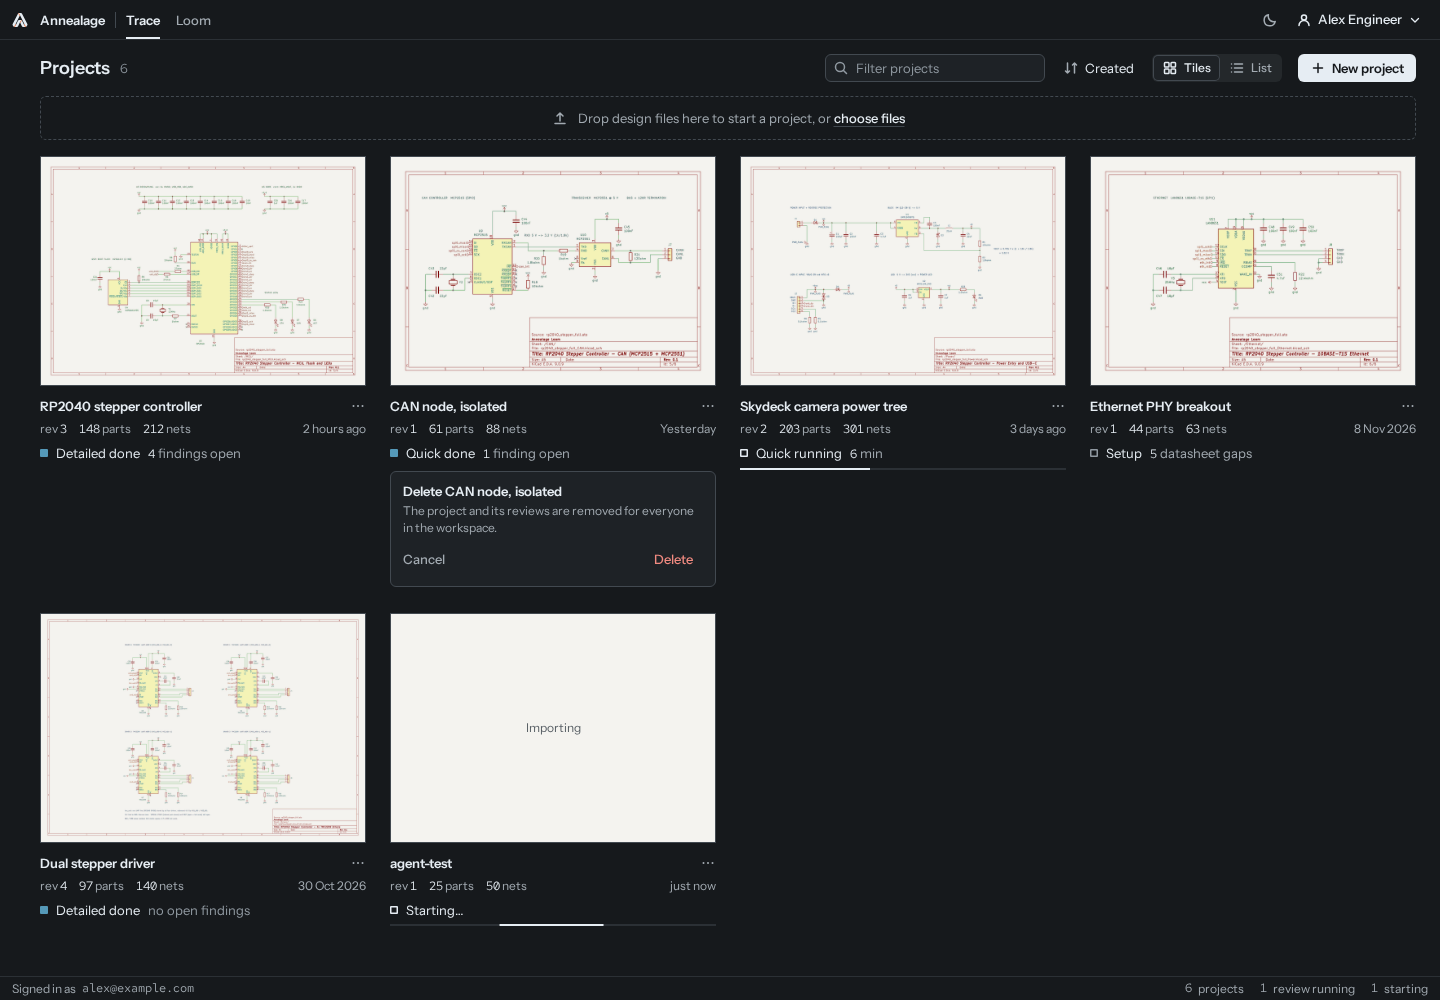
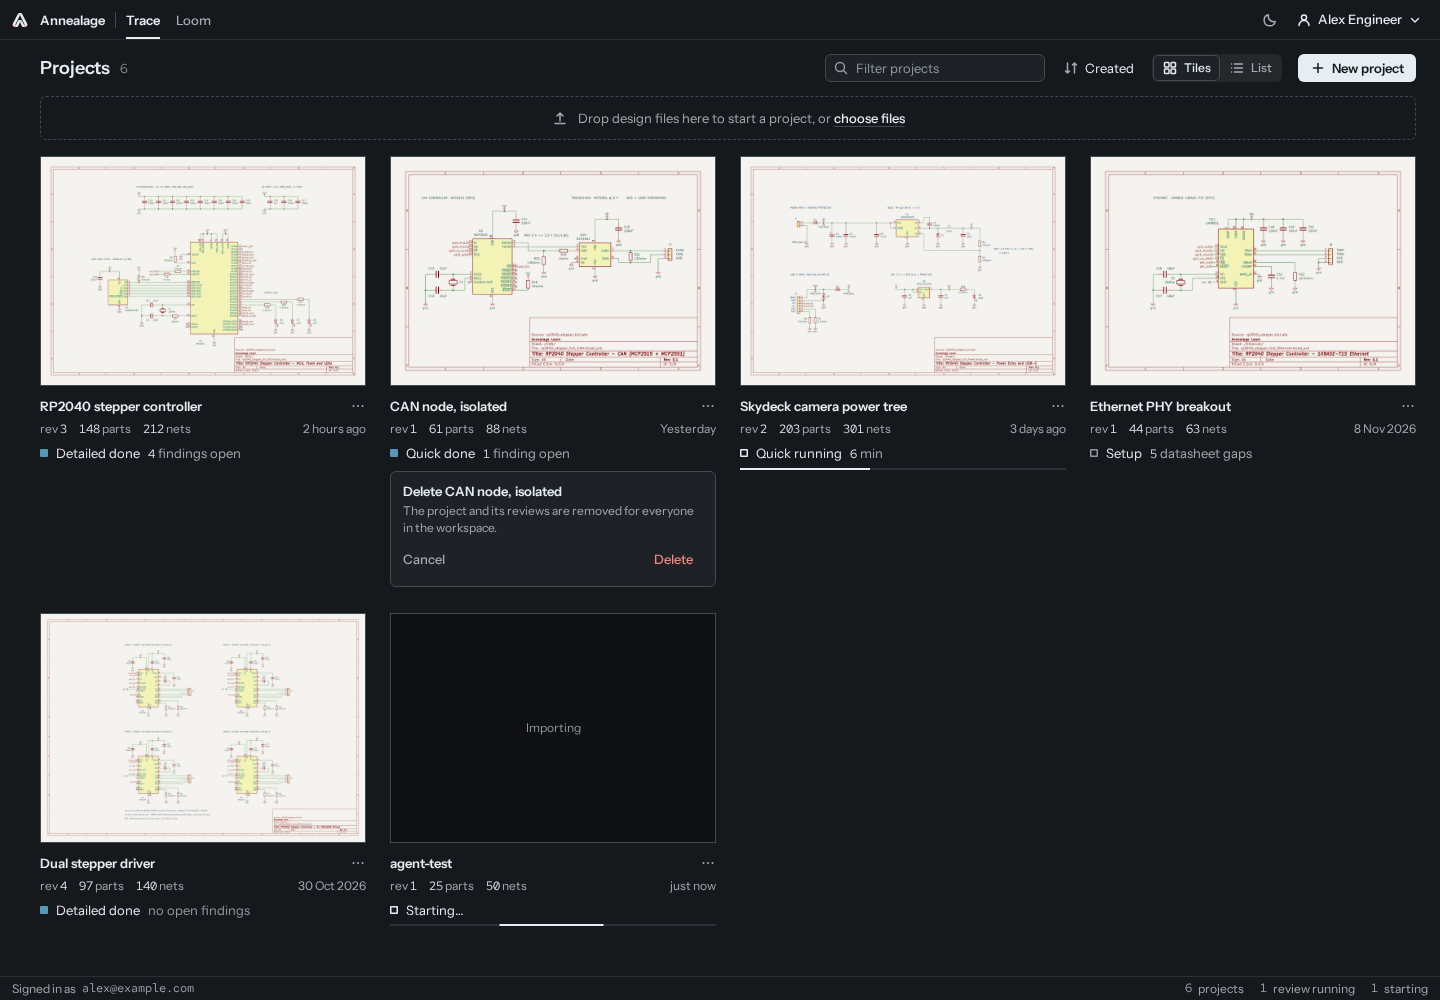
pages: a blank project thumbnail is an empty slot in the well's tone
It has no sheet, so it is not paper: in dark a register of them lit up as
bright boxes. --paper-ink-2 had no other use and goes.

Baselines: list-list light and dark, list-tiles light and dark,
list-phone light, reviewed.

Changed region(s): [[0.25, 0.589, 0.5, 0.868]]

diff --git a/pages.css b/pages.css
@@ -205,7 +205,9 @@ button.drop, button.dropstrip { width: 100%; }
 .p-name { font-weight: 600; min-width: 0; overflow: hidden; text-overflow: ellipsis; white-space: nowrap; }
 a.p-name:hover { text-decoration: underline; text-decoration-color: var(--rule-strong); text-underline-offset: 3px; }
 .p-thumb { display: block; aspect-ratio: 2400 / 1692; }
-.p-thumb.blank { display: grid; place-items: center; background: var(--paper); color: var(--paper-ink-2); font-size: var(--fs-small); }
+/* A thumbnail with no sheet yet is not paper: an empty slot in the well's tone, so a
+   register of them does not light up in dark. */
+.p-thumb.blank { display: grid; place-items: center; background: var(--well); color: var(--ink-3); font-size: var(--fs-small); }
 .p-rev, .p-parts, .p-nets { white-space: nowrap; }
 .p-state { display: grid; grid-template-columns: 8px auto minmax(0, 1fr); column-gap: 8px; align-items: center; white-space: nowrap; }
 .p-state .sd { color: var(--ink-2); }

diff --git a/tokens.css b/tokens.css
@@ -64,12 +64,11 @@
   /* Paper: a schematic sheet or its thumbnail. It is paper in both schemes, a
      slight warm off-white in dark, never a veil over the linework. A sheet
      image multiplies onto --paper-under (white in light, so nothing changes).
-     Marks and text drawn on paper use --paper-ink and its second and third
-     levels, which do not follow the scheme. */
+     Marks drawn on paper use --paper-ink and --paper-ink-3 (a resolved one),
+     which do not follow the scheme. */
   --paper: light-dark(#FDFDF9, #F4F3EF);
   --paper-under: light-dark(#FFFFFF, #F4F3EF);
   --paper-ink: #14171A;
-  --paper-ink-2: #565D63;
   --paper-ink-3: #666D73;
 
   /* Findings drawn on a sheet, which is paper in both schemes. */
